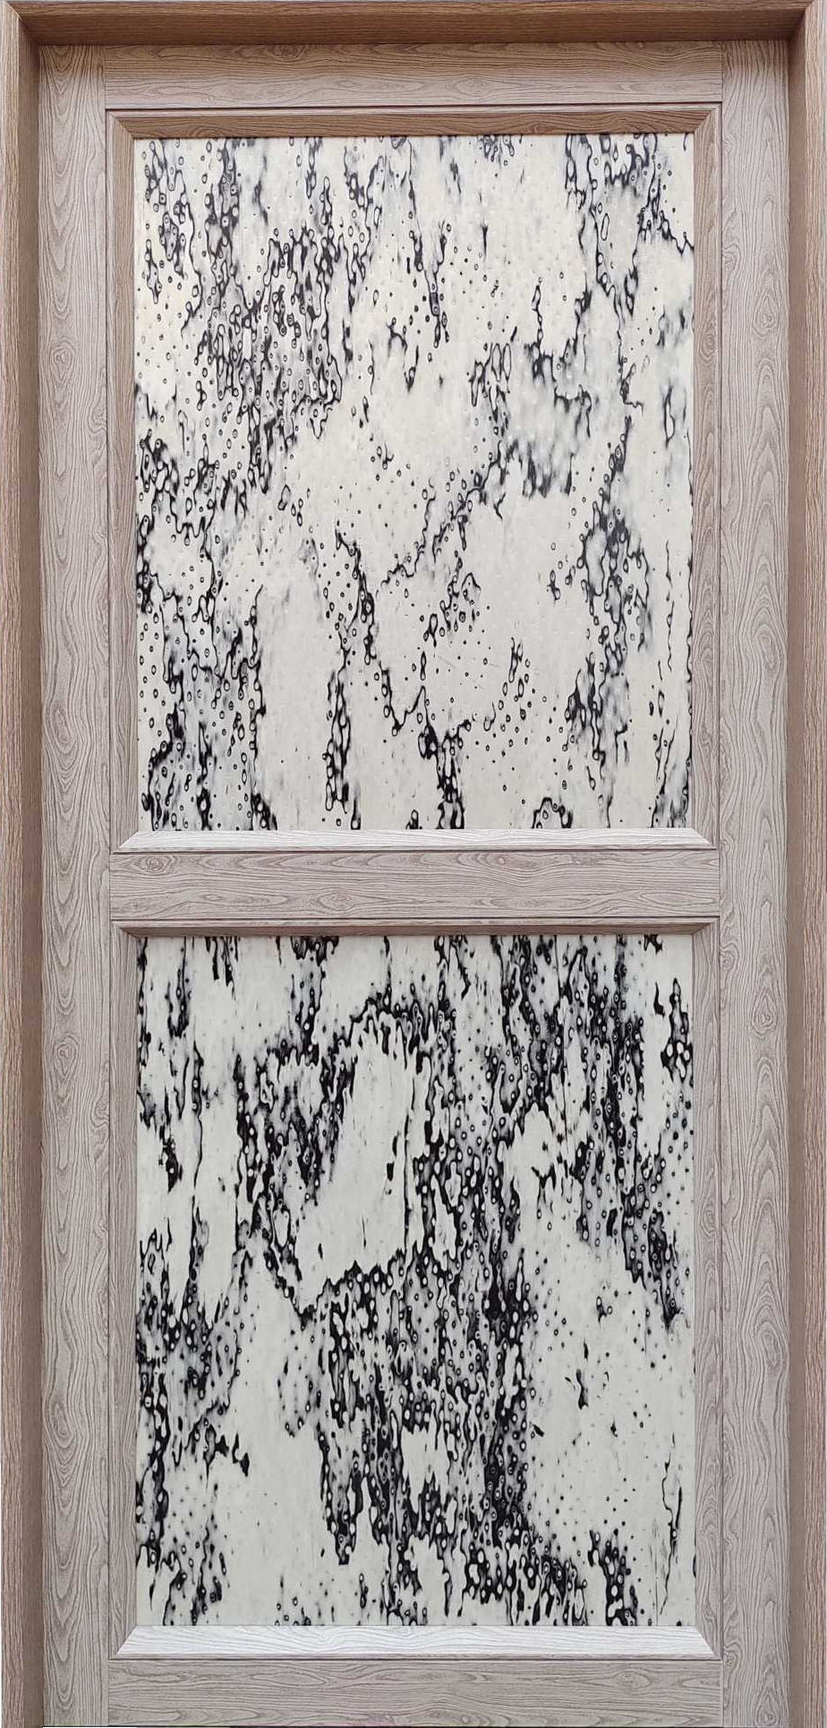
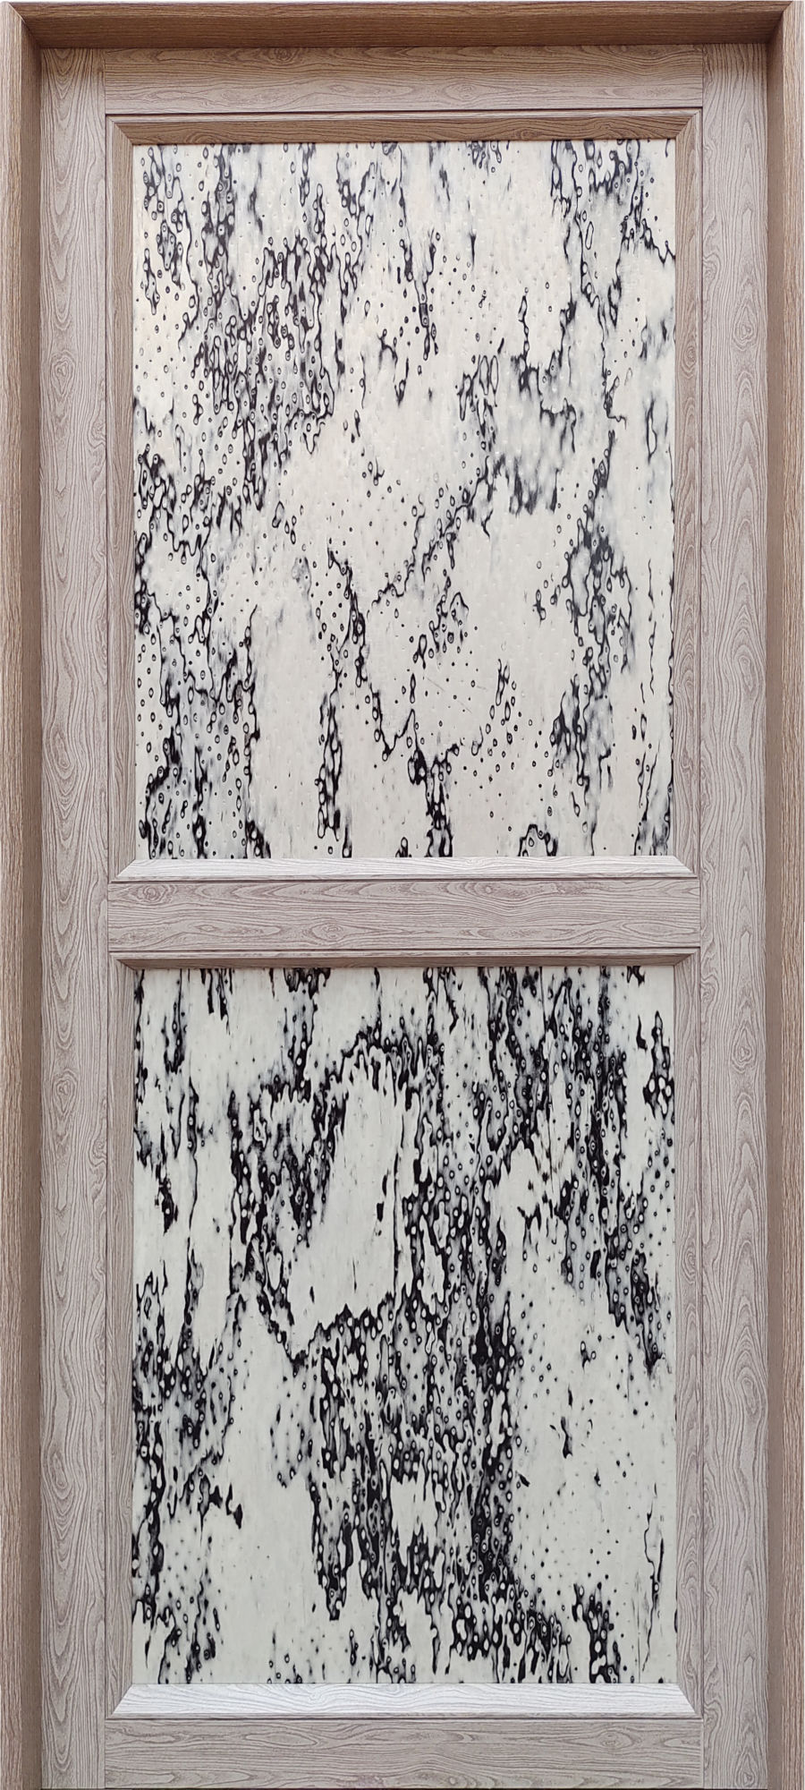
Se agrega AboutUs page y un componente para mostrar en paginas que se proyectan pero aun no existen. Cambios minimos en menu de opciones mobile y en colores del footer general. Se cambian las imagenes de muestra para puertas, haciendolas del mismo tamaño y resolucion

diff --git a/src/components/AboutUsPage.js b/src/components/AboutUsPage.js
@@ -1,0 +1,82 @@
+import React from 'react';
+import { EyeIcon, FlagIcon, HeartIcon, NewspaperIcon, PaperAirplaneIcon } from '@heroicons/react/outline';
+
+const aboutInfo = [
+    {
+      name: 'Nuestra misión',
+      href: 'contactUs',
+      description:
+        'Ofrecer a los usuarios la mejor alternativa de fabricación nacional con productos de gran calidad, con diseños originales y a su elección, a cambio de un precio justo y asequible. Aportaremos enormemente en la formalización laboral para los trabajadores del gremio de la carpintería.',
+      icon: FlagIcon,
+    },
+    {
+      name: 'Nuestra Visión',
+      href: 'contactUs',
+      description:
+        'Marcaremos tendencia con nuestros diseños, usaremos materiales reciclables. Ofreceremos las mejores herramientas tecnológicas del sector para que los usuarios puedan elegir sus productos de manera rápida, cómoda y entretenida.',
+      icon: EyeIcon,
+    },
+    {
+      name: 'Nuestros valores',
+      href: 'contactUs',
+      description:
+        'Calidad · Innovación · Responsabilidad · Sostenibilidad ambiental',
+      icon: HeartIcon,
+    },
+];
+
+const AboutUsPage = () => {
+    return (
+        <div className="bg-white">
+            {/* Header */}
+            <div className="relative pb-32 bg-tercero">
+                <div className="absolute inset-0">
+                    <img
+                        className="w-full h-full object-cover"
+                        src="https://images.unsplash.com/photo-1525130413817-d45c1d127c42?ixlib=rb-1.2.1&ixid=eyJhcHBfaWQiOjEyMDd9&auto=format&fit=crop&w=1920&q=60&&sat=-100"
+                        alt=""
+                    />
+                    <div className="absolute inset-0 bg-tercero mix-blend-multiply" aria-hidden="true" />
+                </div>
+                <div className="relative max-w-7xl mx-auto py-24 px-4 sm:py-32 sm:px-6 lg:px-8">
+                    <h1 className="text-4xl font-extrabold font-ubuntu tracking-tight text-cuarto md:text-5xl lg:text-6xl">Quiénes somos</h1>
+                    <section className="mt-6 max-w-3xl text-justify mx-auto text-xl font-semibold text-white">
+                        <p className='mt-1'>Somos una empresa que surge de una idea propia del fundador, desarrollada y soportada por su núcleo familiar y que se proyecta para hacerla crecer de manera ordenada, sistemática y sostenible. Nos dedicamos a fabricar puertas, ventanas y muebles en general, con diseños originales y materiales duraderos.</p>
+                        <p className='mt-1'>Sabemos que muchas veces las puertas y ventanas en madera son elegantes y vistosas, sin embargo, son frágiles y poco adecuadas para ambientes húmedos y cálidos. Nuestro objetivo es resolver esta necesidad, entregando productos con las virtudes de la madera haciendo uso materiales más resistentes, duraderos y adaptables a muchas condiciones ambientales. </p>
+                    {/* estas son las personas que estan detras del proyecto, mostrar foto agradable de cada uno. mpieza escribiendo un texto que te describa. Debe ser persuasivo y atractivo, dinámico y creativo. El clásico Nuestra compañía empezó en 1957… te describe, pero quizá aburra al lector. Ten en cuenta que este será el primer párrafo que lean sobre ti: dedícale tiempo e intenta mejorarlo siempre. Empieza escribiendo un texto que te describa. Debe ser persuasivo y atractivo, dinámico y creativo. El clásico Nuestra compañía empezó en 1957… te describe, pero quizá aburra al lector. Ten en cuenta que este será el primer párrafo que lean sobre ti: dedícale tiempo e intenta mejorarlo siempre. Explícale a qué te dedicas y qué puedes hacer para ayudarle. En esta parte es interesante hacer partícipe de tu historia al usuario con frases como «y si estás buscando que…», «me gustaría ayudarte a que mejores en…». Debe quedar muy claro a qué te dedicas y qué van a ganar si te eligen a ti. */}
+                    </section>
+                </div>
+            </div>
+
+            {/* Overlapping cards */}
+            <section
+                className="-mt-32 max-w-7xl mx-auto relative z-10 pb-32 px-4 sm:px-6 lg:px-8"
+                aria-labelledby="contact-heading"
+            >
+                <h2 className="sr-only" id="contact-heading">
+                    Contáctenos
+                </h2>
+                <div className="grid grid-cols-1 gap-y-20 lg:grid-cols-3 lg:gap-y-0 lg:gap-x-8">
+                    {aboutInfo.map((section) => (
+                    <div key={section.name} className="flex flex-col bg-white rounded-2xl shadow-xl">
+                        <div className="flex-1 relative pt-16 px-6 pb-8 md:px-8">
+                            <div className="absolute top-0 p-5 inline-block bg-primero rounded-xl shadow-lg transform -translate-y-1/2">
+                                <section.icon className="h-6 w-6 text-white" aria-hidden="true" />
+                            </div>
+                            <h3 className="text-xl font-ubuntu font-semibold text-tercero">{section.name}</h3>
+                            <p className="mt-4 text-base text-justify font-sen font-medium text-segundo">{section.description}</p>
+                        </div>
+                        <div className="p-6 bg-gray-50 rounded-bl-2xl rounded-br-2xl md:px-8">
+                            <a href={section.href} className="text-base font-medium text-primero hover:text-cuarto">
+                            Contáctenos<span aria-hidden="true"> &rarr;</span>
+                            </a>
+                        </div>
+                    </div>
+                    ))}
+                </div>
+            </section>
+        </div>
+    )
+}
+
+export default AboutUsPage;

diff --git a/src/components/Demo.js b/src/components/Demo.js
@@ -6,30 +6,30 @@ const Demo = () => {
         {   id: 'pt001',
             title: 'Muestra 1', 
             description: 'Esta es una breve descripción', 
-            parts: [{partName:'Marco', material:"Aluminio", finish:'Pino blanco'}, 
-                    {partName:'Hoja (Largueros y travesaños)', material:"Aluminio", finish:'Pino blanco'},
+            parts: [{partName:'Marco', material:"Aluminio", finish:'Cedrillo'}, 
+                    {partName:'Hoja (Largueros y travesaños)', material:"Aluminio", finish:'Cedrillo'},
                     {partName:'Hoja (páneles)', material:"Madera", finish:'Flormorado Gris Catedral'},
                 ], 
             src: './muestras-productos/puerta-1.jpg', 
             srcThumbnail: './muestras-productos/puerta-1-det.jpg',
         },
         {   id: 'pt2',
-            title: 'Puerta 2', 
+            title: 'Muestra 2', 
             description: 'Esta es una breve descripción', 
-            parts: [{partName:'Marco', material:"Aluminio", finish:'?'}, 
-                    {partName:'Hoja (Largueros y travesaños)', material:"Aluminio", finish:'?'},
-                    {partName:'Hoja (páneles)', material:"Madera", finish:'?'},
+            parts: [{partName:'Marco', material:"Aluminio", finish:'Nogal oscuro'}, 
+                    {partName:'Hoja (Largueros y travesaños)', material:"Aluminio", finish:'Nogal oscuro'},
+                    {partName:'Hoja (páneles)', material:"Madera", finish:'Palisandro Catedral'},
                 ], 
             src: './muestras-productos/puerta-2.jpg', 
             srcThumbnail: './muestras-productos/puerta-2-det.jpg',
         },
         {   
             id: 'pt3',
-            title: 'Puerta 3', 
+            title: 'Muestra 3', 
             description: 'Esta es una breve descripción', 
-            parts: [{partName:'Marco', material:"Aluminio", finish:'?'}, 
-                    {partName:'Hoja (Largueros y travesaños)', material:"Aluminio", finish:'?'},
-                    {partName:'Hoja (páneles)', material:"Madera", finish:'?'},
+            parts: [{partName:'Marco', material:"Aluminio", finish:'Nogal oscuro'}, 
+                    {partName:'Hoja (Largueros y travesaños)', material:"Aluminio", finish:'Nogal oscuro'},
+                    {partName:'Hoja (páneles)', material:"Madera", finish:'Ebano Macazar Rameado'},
                 ], 
             src: './muestras-productos/puerta-3.jpg', 
             srcThumbnail: './muestras-productos/puerta-3-det.jpg',
@@ -37,8 +37,8 @@ const Demo = () => {
         {   id: 'pt4',
             title: 'Muestra 4', 
             description: 'Esta es una breve descripción', 
-            parts: [{partName:'Marco', material:"Aluminio", finish:'Robre blanco'}, 
-                    {partName:'Hoja (Largueros y travesaños)', material:"Aluminio", finish:'Roble blanco'},
+            parts: [{partName:'Marco', material:"Aluminio", finish:'Cedrillo'}, 
+                    {partName:'Hoja (Largueros y travesaños)', material:"Aluminio", finish:'Cedrillo'},
                     {partName:'Hoja (páneles)', material:"Madera", finish:'Ojo pajaro claro'},
                 ], 
             src: './muestras-productos/puerta-4.jpg', 
@@ -47,8 +47,8 @@ const Demo = () => {
         {   id: 'pt5',
             title: 'Puerta 5', 
             description: 'Esta es una breve descripción', 
-            parts: [{partName:'Marco', material:"Aluminio", finish:'?'}, 
-                    {partName:'Hoja (Largueros y travesaños)', material:"Aluminio", finish:'?'},
+            parts: [{partName:'Marco', material:"Aluminio", finish:'Nuez oscuro'}, 
+                    {partName:'Hoja (Largueros y travesaños)', material:"Aluminio", finish:'Nuez oscuro'},
                     {partName:'Hoja (páneles)', material:"Madera", finish:'?'},
                 ], 
             src: './muestras-productos/puerta-5.jpg', 
@@ -57,8 +57,8 @@ const Demo = () => {
         {   id: 'pt6',
             title: 'Puerta 6', 
             description: 'Esta es una breve descripción', 
-            parts: [{partName:'Marco', material:"Aluminio", finish:'?'}, 
-                    {partName:'Hoja (Largueros y travesaños)', material:"Aluminio", finish:'?'},
+            parts: [{partName:'Marco', material:"Aluminio", finish:'Nuez oscuro'}, 
+                    {partName:'Hoja (Largueros y travesaños)', material:"Aluminio", finish:'Nuez oscuro'},
                     {partName:'Hoja (páneles)', material:"Madera", finish:'?'},
                 ], 
             src: './muestras-productos/puerta-6.jpg', 
@@ -82,14 +82,14 @@ const Demo = () => {
             <div className="text-lg max-w-prose mx-auto">
                 <h1>
                     <span className="block text-lg text-primero text-center font-semibold font-sen tracking-wide uppercase">
-                    Puertas peurtas puertas
+                        Puertas con estructura en aluminio y tableros en madera con acabados especiales
                     </span>
                     <span className="mt-2 block text-3xl text-center leading-8 font-extrabold tracking-tight  font-sen text-tercero sm:text-4xl">
-                    Puertas
+                        Puertas
                     </span>
                 </h1>
                 <p className="mt-8 text-xl text-gray-500 leading-8 text-center">
-                    Descripcion de la seccion de las puertas
+                    Seleccione la muestra a su derecha para ver el producto completo y sus características
                 </p>
             </div>
             <div className="mt-6 text-gray-500 mx-auto">

diff --git a/src/App.js b/src/App.js
@@ -1,25 +1,27 @@
 import React from 'react'
 import { BrowserRouter as Router, Routes, Route} from 'react-router-dom'
+import AboutUsPage from './components/AboutUsPage';
 import ContactPage from './components/ContactPage';
 import Demo from './components/Demo';
 import FinishedsGalery, { ChapillasNaturales, ChapillasPrefabricadas, PinturasMetal } from './components/FinishedsGalery';
 import Footer from './components/Footer';
 import HomePage from './components/HomePage';
+import InProcessPage from './components/InProcessPage';
 import NavBar from './components/NavBar';
 
 const items = [ {id:'prod',
                 title: 'Productos', 
                 href: '', 
                 options: [ {title:'Demos', description:'Visualice algunas de nuestras puertas en aluminio', href:'/demo', dSvg:['M15 12a3 3 0 11-6 0 3 3 0 016 0z','M2.458 12C3.732 7.943 7.523 5 12 5c4.478 0 8.268 2.943 9.542 7-1.274 4.057-5.064 7-9.542 7-4.477 0-8.268-2.943-9.542-7z']},
-                          {title:'Puertas', description:'Fabricadas en aluminio y madera', href:'#', dSvg:['M3 12l2-2m0 0l7-7 7 7M5 10v10a1 1 0 001 1h3m10-11l2 2m-2-2v10a1 1 0 01-1 1h-3m-6 0a1 1 0 001-1v-4a1 1 0 011-1h2a1 1 0 011 1v4a1 1 0 001 1m-6 0h6']},
-                          {title:'Ventanas', description:'Perfiles en aluminio con acabados especiales', href:'#', dSvg:['M9 20l-5.447-2.724A1 1 0 013 16.382V5.618a1 1 0 011.447-.894L9 7m0 13l6-3m-6 3V7m6 10l4.553 2.276A1 1 0 0021 18.382V7.618a1 1 0 00-.553-.894L15 4m0 13V4m0 0L9 7']},
-                          {title:'Muebles', description:'Sillas, mesas fabricadas a su medida', href:'#', dSvg:['M5 8h14M5 8a2 2 0 110-4h14a2 2 0 110 4M5 8v10a2 2 0 002 2h10a2 2 0 002-2V8m-9 4h4']},
+                          {title:'Puertas', description:'Fabricadas en aluminio y madera', href:'puertas', dSvg:['M3 12l2-2m0 0l7-7 7 7M5 10v10a1 1 0 001 1h3m10-11l2 2m-2-2v10a1 1 0 01-1 1h-3m-6 0a1 1 0 001-1v-4a1 1 0 011-1h2a1 1 0 011 1v4a1 1 0 001 1m-6 0h6']},
+                          {title:'Ventanas', description:'Con perfiles en aluminio y acabados especiales', href:'ventanas', dSvg:['M9 20l-5.447-2.724A1 1 0 013 16.382V5.618a1 1 0 011.447-.894L9 7m0 13l6-3m-6 3V7m6 10l4.553 2.276A1 1 0 0021 18.382V7.618a1 1 0 00-.553-.894L15 4m0 13V4m0 0L9 7']},
+                          {title:'Muebles', description:'Sillas, mesas y otros elementos, fabricadas a su medida', href:'muebles', dSvg:['M5 8h14M5 8a2 2 0 110-4h14a2 2 0 110 4M5 8v10a2 2 0 002 2h10a2 2 0 002-2V8m-9 4h4']},
                       ],
-              footOptions:[   {title:'Ver acabados', href:'/finisheds', dSvg:['M14.752 11.168l-3.197-2.132A1 1 0 0010 9.87v4.263a1 1 0 001.555.832l3.197-2.132a1 1 0 000-1.664z','M21 12a9 9 0 11-18 0 9 9 0 0118 0z']},
-                              {title:'Le asesoramos', href:'#', dSvg:['M3 5a2 2 0 012-2h3.28a1 1 0 01.948.684l1.498 4.493a1 1 0 01-.502 1.21l-2.257 1.13a11.042 11.042 0 005.516 5.516l1.13-2.257a1 1 0 011.21-.502l4.493 1.498a1 1 0 01.684.949V19a2 2 0 01-2 2h-1C9.716 21 3 14.284 3 6V5z']},
+              footOptions:[   {title:'Ver acabados', description:'Chapillas naturales, prefabricadas y pintura para aluminio', href:'finisheds', dSvg:['M14.752 11.168l-3.197-2.132A1 1 0 0010 9.87v4.263a1 1 0 001.555.832l3.197-2.132a1 1 0 000-1.664z','M21 12a9 9 0 11-18 0 9 9 0 0118 0z']},
+                              {title:'Le asesoramos', description:'Estamos atentos para ayudarle a elegir su producto', href:'contactUs', dSvg:['M3 5a2 2 0 012-2h3.28a1 1 0 01.948.684l1.498 4.493a1 1 0 01-.502 1.21l-2.257 1.13a11.042 11.042 0 005.516 5.516l1.13-2.257a1 1 0 011.21-.502l4.493 1.498a1 1 0 01.684.949V19a2 2 0 01-2 2h-1C9.716 21 3 14.284 3 6V5z']},
                           ]
               },
-              {id:'aboutUs', title: 'Sobre nosotros', href: '/'},
+              {id:'aboutUs', title: 'Sobre nosotros', href: 'aboutUs'},
               {id:'contactUs', title: 'Contáctenos', href: 'contactUs'},
     ]; 
 
@@ -32,7 +34,11 @@ const App = () => {
                 <Routes>
                     <Route path='/' element={<HomePage />} />
                     <Route path='demo' element={<Demo />} />
+                    <Route path='puertas' element={<InProcessPage />} />
+                    <Route path='ventanas' element={<InProcessPage />} />
+                    <Route path='muebles' element={<InProcessPage />} />
                     <Route path='contactUs' element={<ContactPage />} />
+                    <Route path='aboutUs' element={<AboutUsPage />} />
                     <Route path='finisheds' element={<FinishedsGalery />} >
                         <Route path='chapillasNaturales' element={<ChapillasNaturales /> } />
                         <Route path='chapillasPrefabricadas' element={<ChapillasPrefabricadas /> } />

diff --git a/src/components/InProcessPage.js b/src/components/InProcessPage.js
@@ -1,0 +1,37 @@
+import React from 'react';
+
+const InProcessPage = () => {
+    return (
+        <>
+            <div className="bg-white min-h-full px-4 py-16 sm:px-6 sm:py-24 md:grid md:place-items-center lg:px-8">
+                <div className="max-w-max mx-auto">
+                    <main className="sm:flex">
+                        <p className="text-4xl font-extrabold text-cuarto sm:text-5xl">404</p>
+                        <div className="sm:ml-6">
+                            <div className="sm:border-l sm:border-gray-200 sm:pl-6">
+                                <h1 className="text-4xl font-extrabold text-tercero tracking-tight sm:text-5xl">Page not found</h1>
+                                <p className="mt-1 text-base text-segundo">Esta página está en construcción. Pronto terminaremos de completar su contenido. Gracias por visitarnos, por favor elija las opciones que le ofrecemos abajo para completar su consulta.</p>
+                            </div>
+                            <div className="mt-10 flex space-x-3 sm:border-l sm:border-transparent sm:pl-6">
+                                <a
+                                    href="/"
+                                    className=" transition-colors inline-flex items-center px-4 py-2 border border-transparent text-base font-semibold rounded-full shadow-sm text-white bg-primero hover:bg-cuarto hover:text-tercero focus:outline-none focus:ring-2 focus:ring-offset-2 focus:ring-sexto"
+                                >
+                                    Ir a página inicial
+                                </a>
+                                <a
+                                    href="contactUs"
+                                    className="transition-colors inline-flex items-center px-4 py-2 border border-transparent text-base font-semibold rounded-full text-white bg-tercero hover:bg-sexto hover:text-tercero  focus:outline-none focus:ring-2 focus:ring-offset-2 focus:ring-cuarto"
+                                >
+                                    Necesito asesoría
+                                </a>
+                            </div>
+                        </div>
+                    </main>
+                </div>
+            </div>
+        </>
+    )
+}
+
+export default InProcessPage;

diff --git a/src/components/MenuItemOptionsOption.js b/src/components/MenuItemOptionsOption.js
@@ -1,19 +1,19 @@
 import React from 'react';
 import { NavLink } from 'react-router-dom';
 
-const MenuItemOptionsOption = ({option, handleMenuMobile}) => {
+const MenuItemOptionsOption = ({href, dSvg, title, description,  handleMenuMobile}) => {
     return (
         <>
-            <NavLink to={option.href} onClick={handleMenuMobile} className="m-1 p-1 flex items-start border rounded-lg hover:text-white hover:bg-cuarto">
+            <NavLink to={href} onClick={handleMenuMobile} className="m-1 p-1 flex items-start border rounded-lg hover:text-white hover:bg-cuarto">
                 <svg className="flex-shrink-0 h-6 w-6 text-primero" xmlns="http://www.w3.org/2000/svg" fill="none" viewBox="0 0 23 23" stroke="currentColor" aria-hidden="true">
-                    {option.dSvg.map((d) => {
+                    {dSvg.map((d) => {
                         return <path key={d} strokeLinecap="round" strokeLinejoin="round" strokeWidth={2} d={d} />
                     })}
                 </svg>
                 
                 <div className="ml-4">
-                    <p className="text-lg font-medium text-tercero">{option.title}</p>
-                    <p className=" text-sm text-gray-500">{option.description}.</p>
+                    <p className="text-lg font-medium text-tercero">{title}</p>
+                    <p className=" text-sm text-gray-500">{description}.</p>
                 </div>
             </NavLink>
         </>

diff --git a/src/components/Footer.js b/src/components/Footer.js
@@ -42,7 +42,7 @@ const Footer = ({items}) => {
       ];
     return (
         <footer className="bg-tercero" aria-labelledby="footer-heading">
-            <div className="max-w-7xl mx-auto py-4 px-4 sm:px-4 lg:py-8 lg:px-8">
+            <div className=" mx-auto py-4 px-4 sm:px-4 lg:py-8 lg:px-8">
                 <div className={`pb-8 grid grid-cols-2 gap-10 justify-items-center align-top md:grid md:grid-cols-4 md:gap-8`}>
                     {
                         items.map( (item) => {
@@ -57,7 +57,7 @@ const Footer = ({items}) => {
                 <div className="mt-4 border-t border-quinto pt-4 text-center md:flex md:items-center md:justify-around">
                     <div className="flex justify-center space-x-6 md:order-2">
                         {socialPSvg.map((item) => (
-                        <NavLink key={item.name} to={item.href} className="text-quinto hover:text-sexto">
+                        <NavLink key={item.name} to={item.href} className="transition-colors text-cuarto hover:text-sexto">
                             <span className="sr-only">{item.name}</span>
                             <item.icon className="h-10 w-10" aria-hidden="true" />
                         </NavLink>

diff --git a/src/components/MenuItemOptions.js b/src/components/MenuItemOptions.js
@@ -1,15 +1,21 @@
 import React from 'react';
 import MenuItemOptionsOption from './MenuItemOptionsOption';
 
-const MenuItemOptions = ({hidden, options, handleMenuMobile}) => {
+const MenuItemOptions = ({hidden, options, footOptions, handleMenuMobile}) => {
     return (
         <div className={`bg-white z-50 w-full sm:px-0 ${hidden} rounded-lg ring-1 ring-tercero ring-opacity-5 `}>
             <div className="grid bg-gray-100 px-1 py-1">
                 {
                     options.map((option) => { 
-                            return <MenuItemOptionsOption key={option.title} option={option} handleMenuMobile={handleMenuMobile}/>
+                            return <MenuItemOptionsOption key={option.title} {...option} handleMenuMobile={handleMenuMobile}/>
                         })
                 }
+                {
+                    footOptions?.map((footOption) => { 
+                        return <MenuItemOptionsOption key={footOption.title} {...footOption} handleMenuMobile={handleMenuMobile}/>
+                    })
+                }
+
             </div>
         </div>
     )

diff --git a/src/components/MenuItem.js b/src/components/MenuItem.js
@@ -2,7 +2,7 @@ import React, { useState } from 'react';
 import { NavLink } from 'react-router-dom'
 import MenuItemOptions from './MenuItemOptions';
 
-const MenuItem = ({options, title, href, handleMenuMobile}) => {
+const MenuItem = ({title, href, options, footOptions, handleMenuMobile}) => {
 
     const [optionsHidden, setOptionsHidden] = useState('hidden');
     const [dirArrow, setDirArrow] = useState('rotate-0');
@@ -27,7 +27,7 @@ const MenuItem = ({options, title, href, handleMenuMobile}) => {
                     </svg>
                 </button>
                 {/* Se crea el menu de opciones para el nav bar item */}
-                <MenuItemOptions hidden={optionsHidden} options={options} handleMenuMobile={handleMenuMobile}/>
+                <MenuItemOptions hidden={optionsHidden} options={options} footOptions={footOptions} handleMenuMobile={handleMenuMobile}/>
             </div>
         );
     } else {

diff --git a/src/components/FooterNavItem.js b/src/components/FooterNavItem.js
@@ -4,11 +4,11 @@ import { NavLink } from 'react-router-dom';
 const FooterNavItem = ({item}) => {
     return (
         <div>
-            <h3 className="text-base font-semibold text-sexto/60 tracking-wider uppercase">{item.title}</h3>
+            <h3 className="text-base font-semibold text-sexto tracking-wider uppercase">{item.title}</h3>
             <ul role="list" className="mt-1 space-y-1">
                 {item.options?.map((option) => (
                     <li key={option.title}>
-                        <NavLink to={option.href} className="text-base text-quinto hover:text-sexto">
+                        <NavLink to={option.href} className="transition-colors text-base text-cuarto hover:text-sexto">
                             {option.title}
                         </NavLink>
                     </li>

diff --git a/src/components/FinishedsGalery.js b/src/components/FinishedsGalery.js
@@ -135,7 +135,7 @@ const FinishedsGalery = () => {
     const [selectedTab, setSelectedTab] = useState(tabs[0].href);
     
     useEffect(() => {
-        navigate(selectedTab)
+        navigate(selectedTab, )
     }, [selectedTab])
     
     const handleSelectedTab = (e) => {
